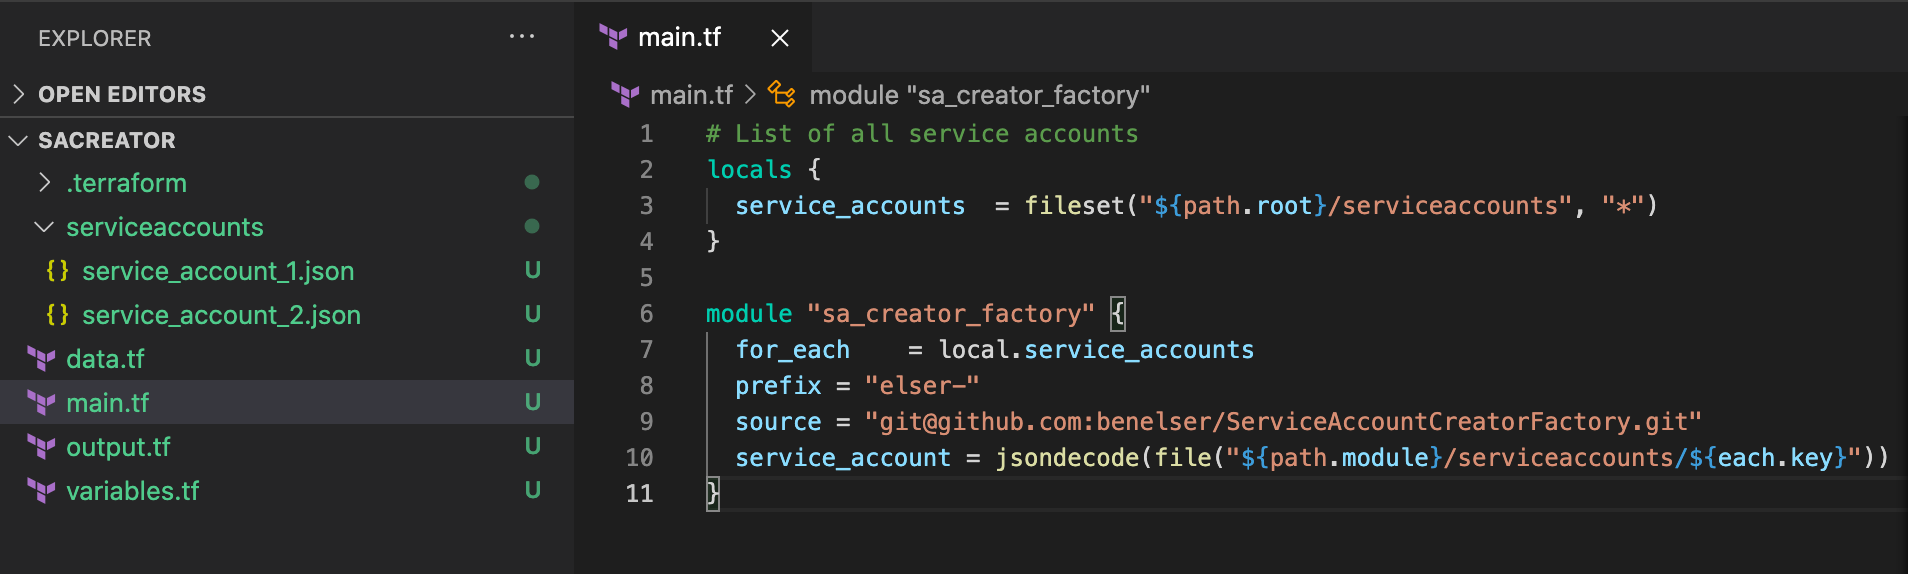
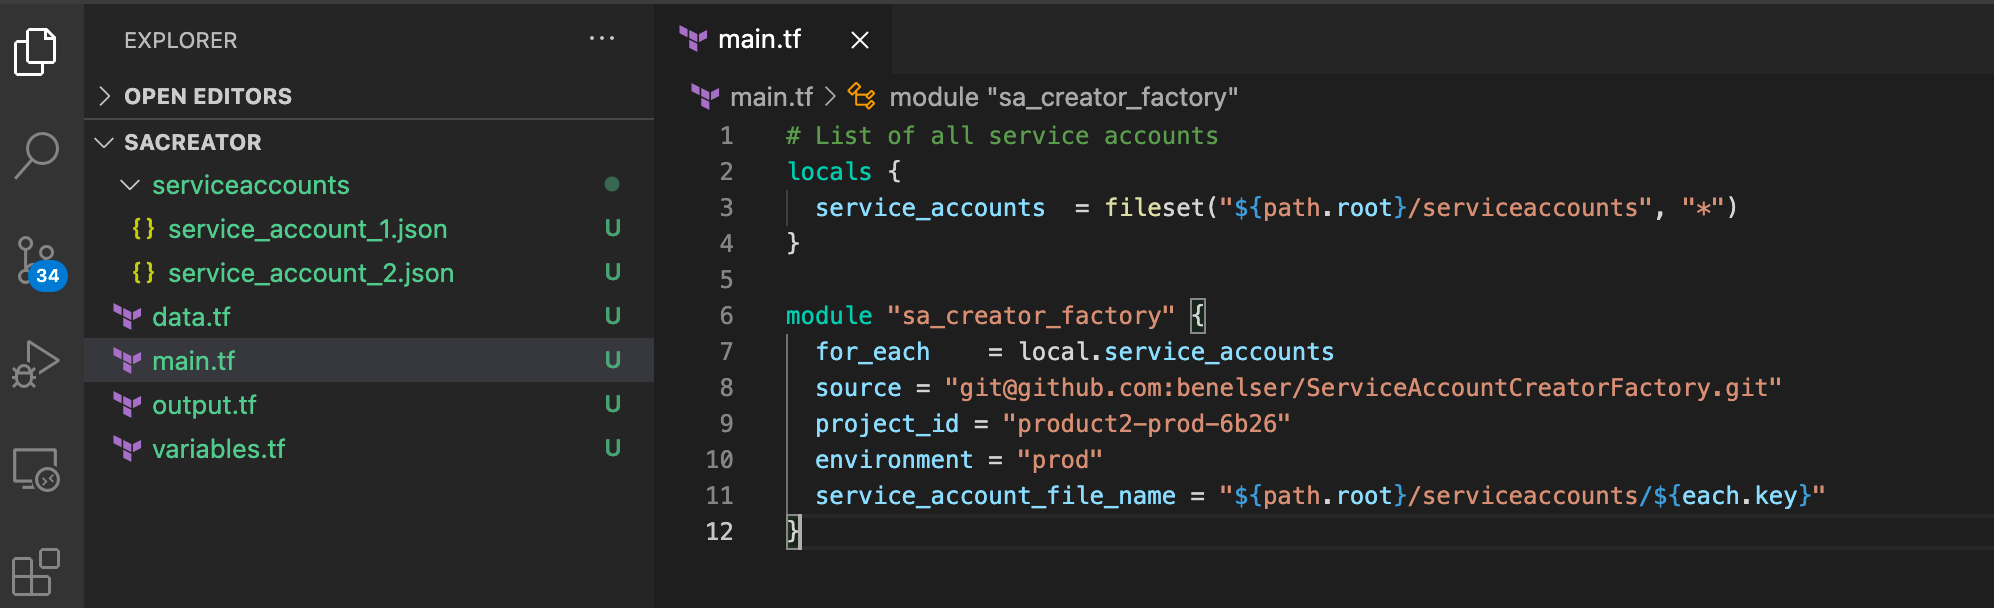
updated readme

diff --git a/README.md b/README.md
@@ -1,8 +1,8 @@
 # Service Account Creator Factory 
-This module is used to create and manage the full life-cycle of service accounts from terraform. The assumption is that you will be creating service accounts in a "owner-project" then granting each service account permissions to other projects to include its owner project if you choose by defining a new binding "object" {} in json property "project_level_iam_bindings" which is an array that holds our "binding objects" {}. The power comes when you start granting who has access to a Service Account as a resource which is done in the "sa_level_self_iam_bindings" property in our [json definition](./service_account_EXAMPLE.json). 
+This module is used to create and manage the full life-cycle of service accounts from terraform. The assumption is that you will be creating service accounts in a "owner-project" then granting each service account permissions (if needed across projects) to include its owner project if you choose by defining a new binding "object" {} in json property "project_level_iam_bindings" which is an array that holds our "binding objects" {}. The power comes when you start granting who has access to a Service Account as a resource which is done in the "sa_level_self_iam_bindings" property in our [json definition](./service_account_EXAMPLE.json). 
 
-### Example of Service Account roles in which I want to apply at a project level
-This level is the the service account as an identity implementation
+### Example of Service Account roles in which I want to apply at a project level that is not the owner project of the Service Account "Cross Project Grant"
+This level is the the service account as an identity implementation this facilitates cross project access
 
 ```json
 {
@@ -14,7 +14,26 @@ This level is the the service account as an identity implementation
 }
 
 ```
+### Example of Service Account Template Extension 
+The module expose to values that can be used for dynamic service account creation for its owner project. This allow for re-use across projects and environments. These values are swapped out with the values that you pass into the module. The idea here is to have one definition that can be used in any environment. 
+#### Template values
+- project_id
+- environment
 
+```json
+{
+  "name": "first-sa-${environment}",
+  "owner_project_id": "${project_id}",
+  "display_name": "first service account",
+  "description": "used for monitoring",
+  "project_level_iam_bindings": [
+    {
+      "project_id": "${project_id}",
+      "project_level_roles": ["roles/owner"]
+    }
+  ]
+}
+```
 ## Granting other identities access to the Service Account Resource
 Remember, a service account is a identity and a resource. Above we created the SA as a resource and granted permissions to that resource. As an identity we need to define new policies to declare WHO has permissions to ACTAS that service account "AS AN IDENTITY".
 
@@ -53,9 +72,10 @@ locals {
 
 module "sa_creator_factory" {
   for_each    = local.service_accounts
-  prefix = "elser-"
   source = "git@github.com:benelser/ServiceAccountCreatorFactory.git"
-  service_account = jsondecode(file("${path.module}/serviceaccounts/${each.key}"))
+  project_id = "product2-prod-6b26"
+  environment = "prod"
+  service_account_file_name = "${path.root}/serviceaccounts/${each.key}"
 }
 ```
 
